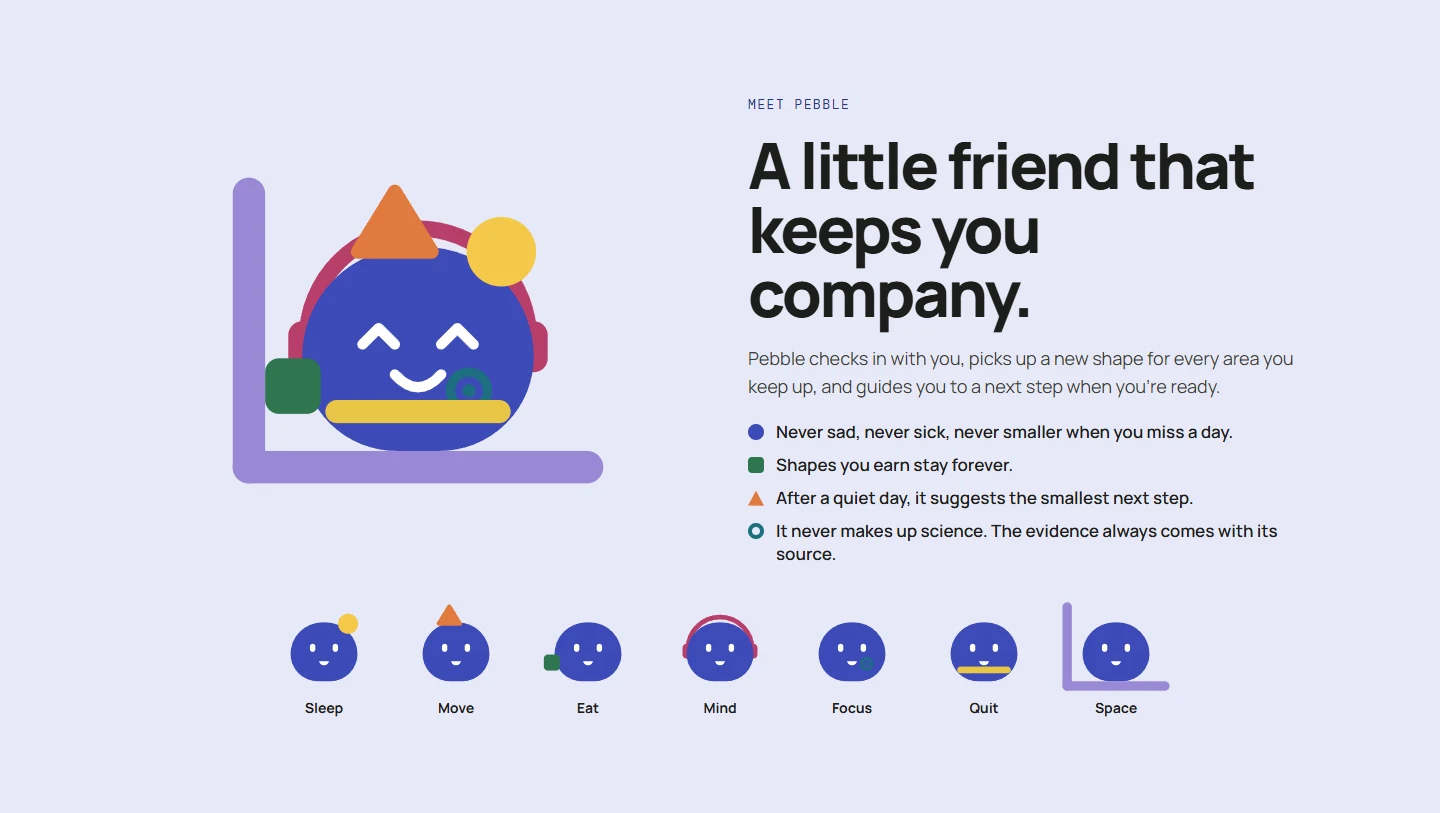
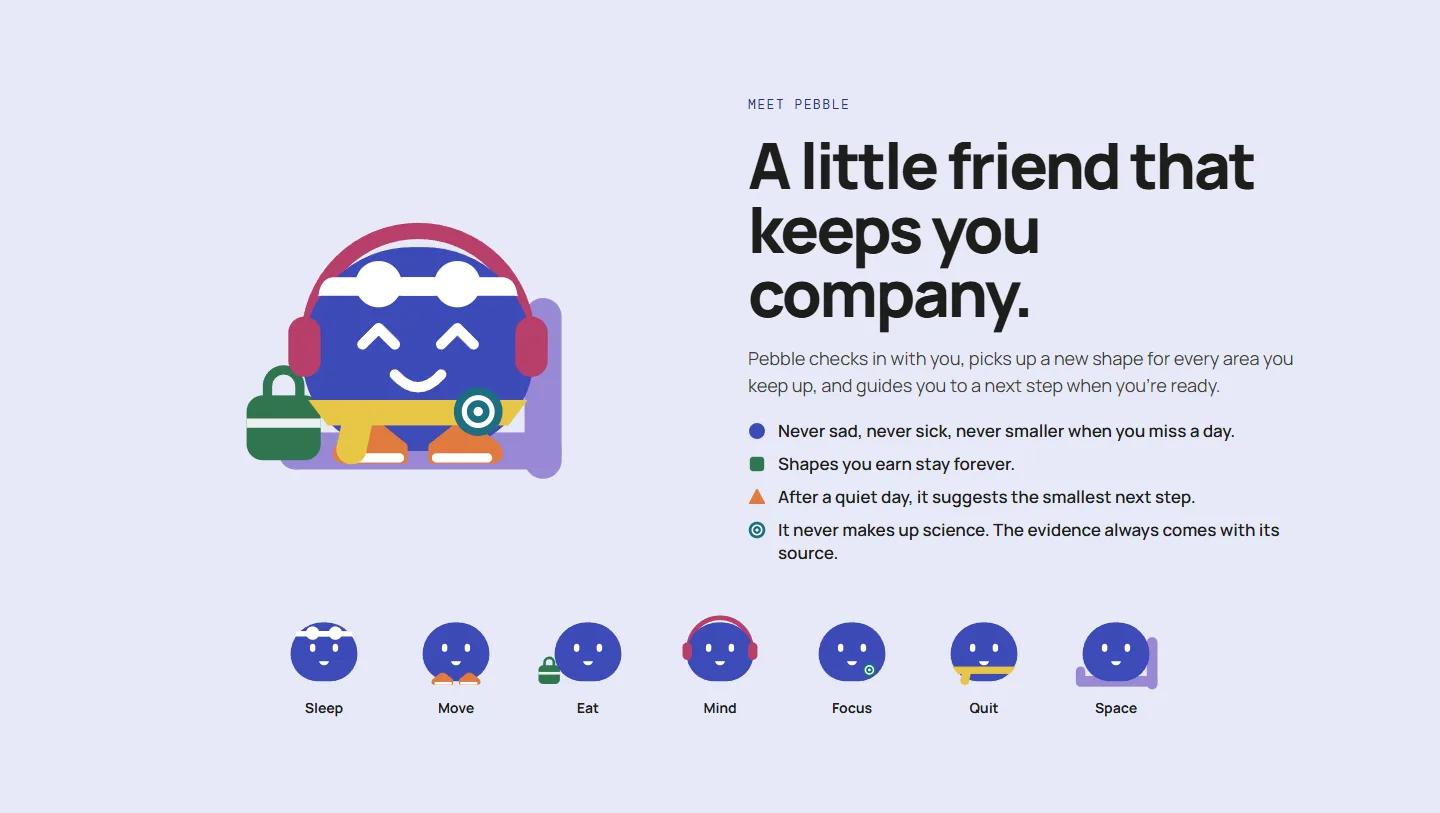
Cited Life follows the v2 website visuals: Pebble with accessories, the new hero in place of the removed Space section, Focus badge

diff --git a/src/content/projects/cited-life.md b/src/content/projects/cited-life.md
@@ -18,14 +18,14 @@ date: "2026-11"
 # Sections of the Cited Life website (Desktop/website-citedlife), taken at 1440 px wide.
 # The budget and pricing sections are left out on purpose.
 images:
+  - src: "/images/cited-life-site-hero.webp"
+    alt: "The opening of the Cited Life website: 'Small habits. Real science. No rush.' and a line on what the app does. Beside it, on lavender, Pebble, a round blue companion, smiling in a white eye mask pushed up on its head and orange sneakers."
   - src: "/images/cited-life-site-areas.webp"
     alt: "The section 'Five things to feel better about. Two ways to act.': five coloured cards for the goals, each with its own white shape: Sleep (blue, a circle), Move (orange, a triangle), Eat (green, a square), Mind (pink, a dome) and Focus (teal, a target). Below, two outlined cards for the ways to act: Quit (a yellow dash) and Space (a violet corner)."
   - src: "/images/cited-life-site-science.webp"
     alt: "The section 'Every habit shows its homework': the evidence grades drawn as four columns of falling height, A strong, B moderate, C limited and D early, from solid black to a dashed outline."
-  - src: "/images/cited-life-site-space.webp"
-    alt: "The section 'Some things you only do once', on lavender: a card with the violet corner shape, '2 of 5 set up' and five boxes, two of them filled."
   - src: "/images/cited-life-site-pebble.webp"
-    alt: "The section 'A little friend that keeps you company': Pebble, a round blue companion with happy eyes, wearing all seven shapes, next to four promises. Below, a row of seven small Pebbles, each wearing one area's shape: Sleep, Move, Eat, Mind, Focus, Quit and Space."
+    alt: "The section 'A little friend that keeps you company': Pebble with happy eyes, wearing all seven accessories at once, next to four promises. Below, a row of seven small Pebbles, each wearing one area's accessory: an eye mask for Sleep, sneakers for Move, a lunchbox for Eat, headphones for Mind, a badge with a target for Focus, a scarf for Quit and an armchair for Space."
 # No tools listed: this page is about the product, not how it is built.
 stack: []
 # links: none yet; the app is not launched and its repository is private.
@@ -42,6 +42,6 @@ stack: []
 
 **Who it is for.** People who take their quality of life seriously: who want to know why a habit works before they start, would rather keep one small habit than abandon a big plan, and are done with streaks. It is not meant for medical treatment, leaderboards or quick fixes.
 
-**How it looks.** Flat, friendly shapes on a warm off-white page. Each area has its own shape and colour: a circle for Sleep, a triangle for Move, a square for Eat, a dome for Mind, a target for Focus, a dash for Quit and a corner for Space. Pebble wears the shapes it earns. The evidence grades are columns that shrink from solid black to a dashed outline: a D means early research, not a bad habit.
+**How it looks.** Flat, friendly shapes on a warm off-white page. Each area has its own shape and colour: a circle for Sleep, a triangle for Move, a square for Eat, a dome for Mind, a target for Focus, a dash for Quit and a corner for Space. Pebble earns an accessory for each area: an eye mask, sneakers, a lunchbox, headphones, a Focus badge, a scarf and an armchair. The evidence grades are columns that shrink from solid black to a dashed outline: a D means early research, not a bad habit.
 
 <!-- Drafted by Claude from the Cited Life website, at Salvador's request. Salvador: review and rewrite in your own words. -->
